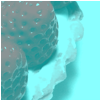
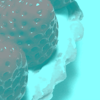
Fix white line artifacts

Changed region(s): [[0.0, 0.0, 1.0, 1.0]]

diff --git a/modal/scripts/captcha-manager.js b/modal/scripts/captcha-manager.js
@@ -2,6 +2,11 @@ const RESOURCES = "resources/";
 const AUDIO = RESOURCES + "audio/";
 const IMAGES = RESOURCES + "images/";
 
+const IMAGE_QUESTIONS = [
+  { question: { sentence: "Select all squares that contain the colour", word: "red" }, imagesFunc: () => _imageSet("strawberries", "png") },
+  { question: { sentence: "Select all squares that contain", word: "black dots" }, imagesFunc: () => _imageSet("grid_illusion", "png") }
+];
+
 export default class CaptchaManager {
   constructor() {
     this._isImageMode = true;
@@ -12,8 +17,9 @@ export default class CaptchaManager {
   nextQuestion() {
     if (this._isImageMode) {
       this.numImageQuestionsAnswered++;
-      const question = { sentence: "Select all squares that contain the colour", word: "red" };
-      const images = _imageSet("strawberries", "png");
+      const questionDetails = this._nextImageQuestion();
+      const question = questionDetails.question;
+      const images = questionDetails.imagesFunc();
       return { question: question, images: images };
     } else {
       this.numAudioQuestionsAnswered++;
@@ -36,6 +42,13 @@ export default class CaptchaManager {
   
   isImageMode() {
     return this._isImageMode;
+  }
+  
+  _nextImageQuestion() {
+    if (this.numImageQuestionsAnswered > 1) {
+      return IMAGE_QUESTIONS[1];
+    }
+    return IMAGE_QUESTIONS[this.numImageQuestionsAnswered];
   }
 }
 

diff --git a/modal/scripts/build/modal.js b/modal/scripts/build/modal.js
@@ -5,6 +5,11 @@
   const AUDIO = RESOURCES + "audio/";
   const IMAGES = RESOURCES + "images/";
 
+  const IMAGE_QUESTIONS = [
+    { question: { sentence: "Select all squares that contain the colour", word: "red" }, imagesFunc: () => _imageSet("strawberries", "png") },
+    { question: { sentence: "Select all squares that contain", word: "black dots" }, imagesFunc: () => _imageSet("grid_illusion", "png") }
+  ];
+
   class CaptchaManager {
     constructor() {
       this._isImageMode = true;
@@ -15,8 +20,9 @@
     nextQuestion() {
       if (this._isImageMode) {
         this.numImageQuestionsAnswered++;
-        const question = { sentence: "Select all squares that contain the colour", word: "red" };
-        const images = _imageSet("strawberries", "png");
+        const questionDetails = this._nextImageQuestion();
+        const question = questionDetails.question;
+        const images = questionDetails.imagesFunc();
         return { question: question, images: images };
       } else {
         this.numAudioQuestionsAnswered++;
@@ -39,6 +45,13 @@
     
     isImageMode() {
       return this._isImageMode;
+    }
+    
+    _nextImageQuestion() {
+      if (this.numImageQuestionsAnswered > 1) {
+        return IMAGE_QUESTIONS[1];
+      }
+      return IMAGE_QUESTIONS[this.numImageQuestionsAnswered];
     }
   }
 

diff --git a/create_images.py b/create_images.py
@@ -15,9 +15,9 @@ im.thumbnail((TOTAL_IMAGE_DIMENSION, TOTAL_IMAGE_DIMENSION))
 draw = ImageDraw.Draw(im)
 for i in range(3):
 	x0 = (i + 1) * 100 + i * 4
-	x1 = x0 + 4
-	draw.rectangle([(x0, 0), (x1, TOTAL_IMAGE_DIMENSION)], fill=WHITE)
-	draw.rectangle([(0, x0), (TOTAL_IMAGE_DIMENSION, x1)], fill=WHITE)
+	x1 = x0 + 3
+	draw.rectangle([(x0, 0), (x1, TOTAL_IMAGE_DIMENSION - 1)], fill=WHITE)
+	draw.rectangle([(0, x0), (TOTAL_IMAGE_DIMENSION - 1, x1)], fill=WHITE)
 del draw
 
 im.show()
